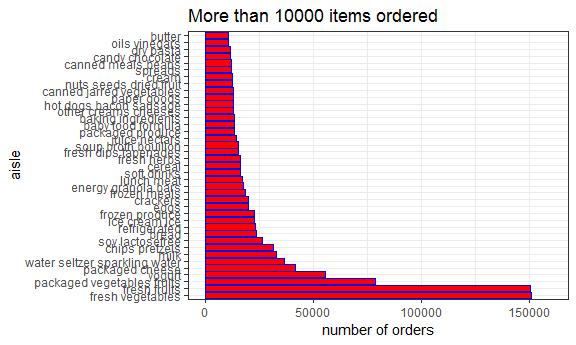
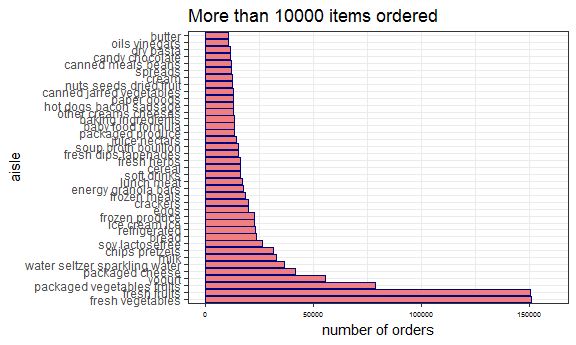
made some changes to the themes of the plots

Changed region(s): [[0.0312, 0.087, 0.9688, 0.9275], [0.0, 0.4348, 0.0625, 0.5217]]

diff --git a/p8105_hw3_hh2767.md b/p8105_hw3_hh2767.md
@@ -123,19 +123,28 @@ count$aisle = factor(count$aisle, levels = count$aisle)
 Then, I can begin to make the graph.
 
 ``` r
-order_over10k = ggplot(filter(count, n >= 10000), aes(x = aisle, y = n, color = aisle)) + geom_col() +  theme(legend.position = "bottom") + scale_x_discrete(breaks = NULL) + scale_y_continuous( limits = c(0, 160000)) + labs(title = "More than 10000 items ordered", y = "number of orders") 
+order_over10k = ggplot(filter(count, n >= 10000), aes(x = aisle, y = n, fill = aisle)) + geom_col() +  theme(legend.position = "bottom") + scale_x_discrete(breaks = NULL) + scale_y_continuous( limits = c(0, 160000)) + labs(title = "More than 10000 items ordered", y = "number of orders") +   viridis::scale_fill_viridis(option = "virids", discrete = TRUE)
 
-order_3k_10K = ggplot(filter(count, n >= 3000 & n < 10000), aes(x = aisle, y = n, color = aisle)) + geom_col() +  theme(legend.position = "bottom") + scale_x_discrete(breaks = NULL) + labs(title = "3000 to 10000 items ordered", y = "number of orders")
+order_3k_10K = ggplot(filter(count, n >= 3000 & n < 10000), aes(x = aisle, y = n, fill = aisle)) + geom_col() +  theme(legend.position = "bottom") + scale_x_discrete(breaks = NULL) + labs(title = "3000 to 10000 items ordered", y = "number of orders") +  viridis::scale_fill_viridis(option = "virids", discrete = TRUE)
 
-ordre_less3k = ggplot(filter(count, n < 3000), aes(x = aisle, y = n, color = aisle)) + geom_col() +  theme(legend.position = "bottom") + scale_x_discrete(breaks = NULL) + labs(title = "Less than 3000 items ordered", y = "number of orders")
+ordre_less3k = ggplot(filter(count, n < 3000), aes(x = aisle, y = n, fill = aisle)) + geom_col() +  theme(legend.position = "bottom") + scale_x_discrete(breaks = NULL) + labs(title = "Less than 3000 items ordered", y = "number of orders") + viridis::scale_fill_viridis(option = "virids", discrete = TRUE)
 
 (order_over10k + order_3k_10K) / ordre_less3k
 ```
 
+    ## Warning in viridisLite::viridis(n, alpha, begin, end, direction, option):
+    ## Option 'virids' does not exist. Defaulting to 'viridis'.
+
+    ## Warning in viridisLite::viridis(n, alpha, begin, end, direction, option):
+    ## Option 'virids' does not exist. Defaulting to 'viridis'.
+
+    ## Warning in viridisLite::viridis(n, alpha, begin, end, direction, option):
+    ## Option 'virids' does not exist. Defaulting to 'viridis'.
+
 <img src="p8105_hw3_hh2767_files/figure-markdown_github/unnamed-chunk-8-1.png" width="90%" style="display: block; margin: auto;" />
 
 ``` r
-ggplot(filter(count, n >= 10000), aes(x = aisle, y = n)) + geom_col(fill = "red", color = "blue") +  theme(legend.position = "bottom") + scale_y_continuous( limits = c(0, 160000)) + labs(title = "More than 10000 items ordered", y = "number of orders") + coord_flip()
+ggplot(filter(count, n >= 10000), aes(x = aisle, y = n)) + geom_col(fill = "lightcoral", color = "navy") +  theme(legend.position = "bottom") + scale_y_continuous( limits = c(0, 160000)) + labs(title = "More than 10000 items ordered", y = "number of orders") + coord_flip() + theme(axis.text.x = element_text(face = "plain", color = "black", size = 5))
 ```
 
 <img src="p8105_hw3_hh2767_files/figure-markdown_github/unnamed-chunk-9-1.png" width="90%" />
@@ -248,12 +257,9 @@ ny_noaa %>%
   filter(!is.na(tmax_c)) %>% 
   group_by(id, year, month) %>% 
   summarize(mean_tmax = mean(tmax_c)) %>% 
-  ggplot(aes(x = year, y = mean_tmax, color = id)) + 
-  geom_point() + 
-  geom_smooth(se = FALSE) + 
-  facet_grid(.~month)
+  ggplot(aes(x = year, y = mean_tmax)) +
+  geom_boxplot(fill = "brown1")  + 
+  facet_grid(.~month) + theme(legend.position = "botomn") + theme(axis.text.x = element_text(face = "plain", color = "black", size = 6.5, angle = 60))
 ```
 
-    ## `geom_smooth()` using method = 'loess' and formula 'y ~ x'
-
-<img src="p8105_hw3_hh2767_files/figure-markdown_github/unnamed-chunk-14-1.png" width="90%" />
+<img src="p8105_hw3_hh2767_files/figure-markdown_github/unnamed-chunk-14-1.png" width="90%" /> The plot above is a two-panel plot. The left one shows the distribution of mean max temperature of January observed at each station, while the right one shows the distribution of mean max temperature of July observed at each station. The result
